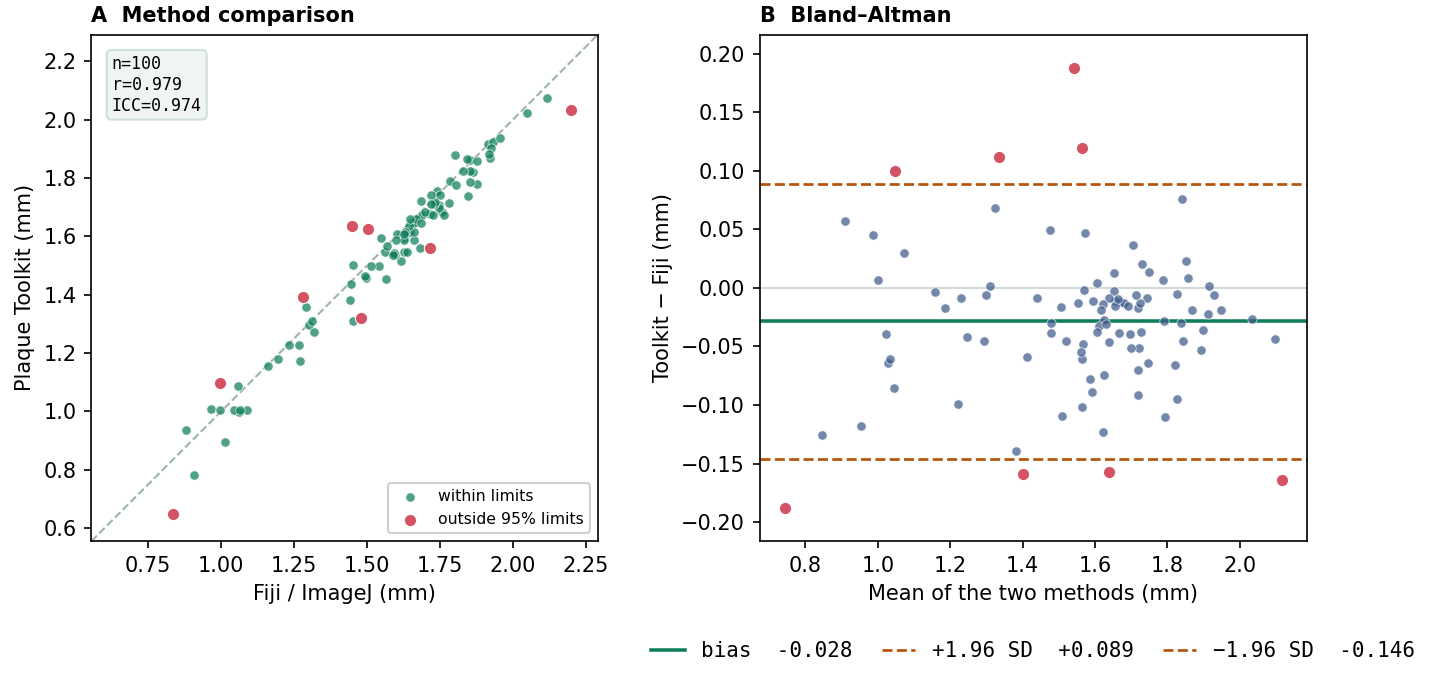
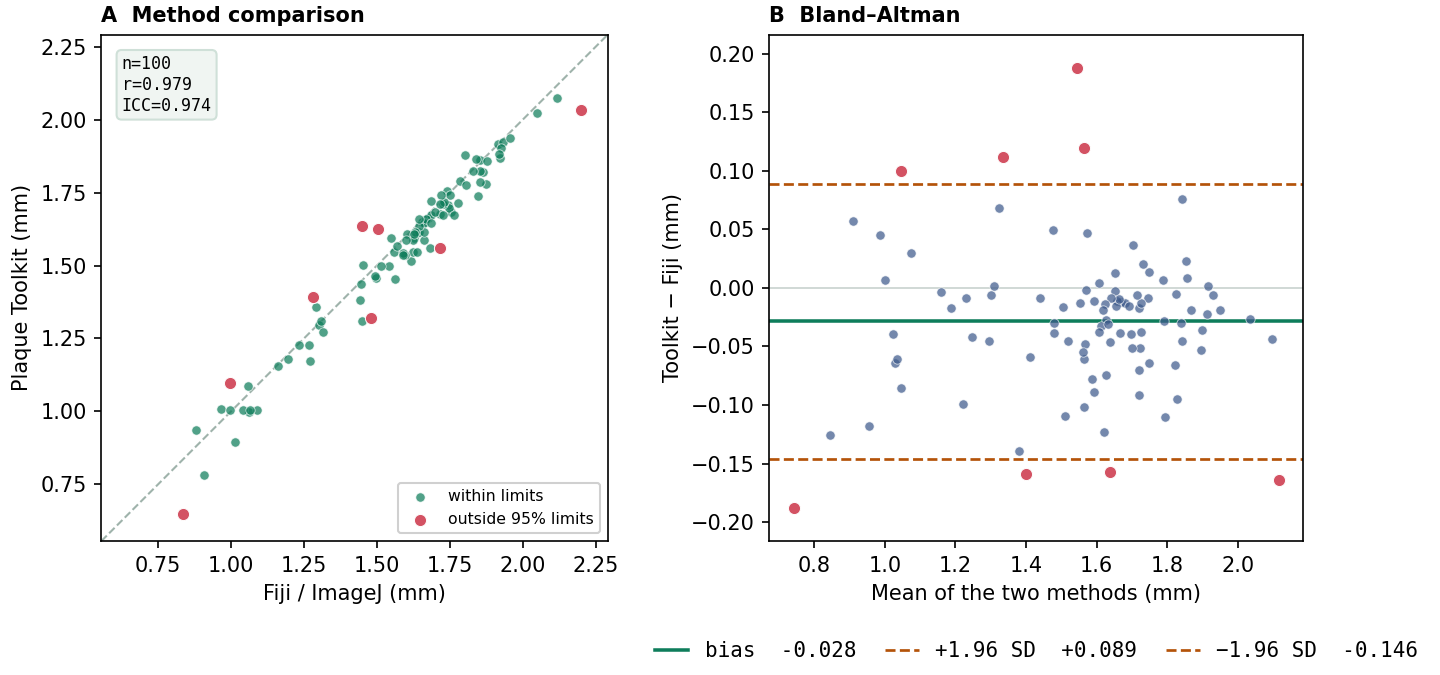
Agreement figure: match x/y tick values on the method-comparison panel
Panel A is an identity plot (equal range + equal aspect), but matplotlib auto-picked
different tick LABELS for the two axes (e.g. 1,2 on x vs 1.0,1.5,2.0 on y), which reads
as 'different scales'. Force both axes to the same tick values so both sides align.

diff --git a/app/agreement.py b/app/agreement.py
@@ -127,6 +127,11 @@ def make_figure(s, unit="mm", title="Plaque Toolkit vs Fiji/ImageJ"):
                     edgecolor="white", linewidth=.5, zorder=4, label="outside 95% limits")
         ax1.legend(loc="lower right", fontsize=7.5, framealpha=.92)
     ax1.set_xlim(lim); ax1.set_ylim(lim); ax1.set_aspect("equal", "box")
+    # identity plot: force the SAME tick values on both axes so both sides read alike
+    _tk = [t for t in ax1.get_xticks() if lim[0] <= t <= lim[1]]
+    if _tk:
+        ax1.set_xticks(_tk); ax1.set_yticks(_tk)
+        ax1.set_xlim(lim); ax1.set_ylim(lim)   # re-apply (setting ticks can nudge the view)
     ax1.set_xlabel("Fiji / ImageJ (%s)" % unit); ax1.set_ylabel("Plaque Toolkit (%s)" % unit)
     ax1.set_title("A  Method comparison", loc="left", fontsize=10, fontweight="bold")
     ax1.text(.04, .96, "n=%d\nr=%.3f\nICC=%.3f" % (s["n"], s["r"], s["icc"]),